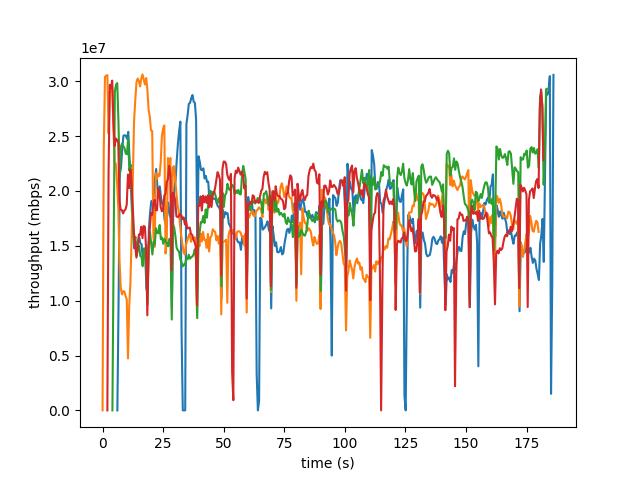
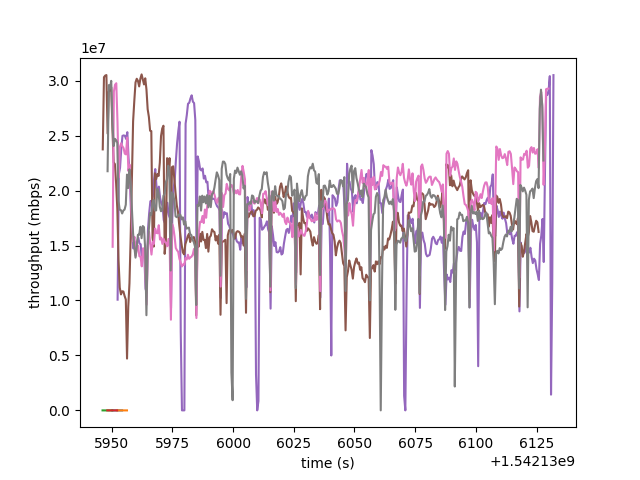
Refactor to reduce memory usage

diff --git a/Parse_pcap/src/main.rs b/Parse_pcap/src/main.rs
@@ -9,7 +9,7 @@ extern crate rayon;
 
 use std::env;
 use std::error::Error;
-use std::collections::HashMap;
+use std::collections::{HashMap};
 
 use linux_api::time::timeval;
 
@@ -32,10 +32,9 @@ fn main() -> Result<(), Box<dyn Error>> {
     let mut dir: String = String::from(".");
     let mut output: String;
     let mut granularity: i64 = 500;
-    let mut time_step: i64 = 500;
 
     if env::args().len() < 3 {
-        eprintln!("Args: <pcap_regex> <directory> [output_dir] [granularity] [time_step_size]");
+        eprintln!("Args: <pcap_regex> <directory> [output_dir] [granularity] ");
         return Result::Err(string_error::new_err("not enough args"));
     }
     else {
@@ -45,7 +44,6 @@ fn main() -> Result<(), Box<dyn Error>> {
                 2 => dir = arg,
                 3 => output = arg,
                 4 => granularity = arg.parse::<i64>()?,
-                5 => time_step = arg.parse::<i64>()?,
                 _ => eprintln!("arg {} is {}", i, arg),
             }
         }
@@ -57,31 +55,25 @@ fn main() -> Result<(), Box<dyn Error>> {
         let stem = Path::new(&file).file_stem().unwrap().to_str().unwrap();
         eprintln!("shortpath: {}", stem);
         let mut cap = open_capture(&file).unwrap();
-        let mut flow_map = parse_capture(&mut cap).unwrap();
 
-        let parsed_flows: Vec<(u16, Vec<Throughput>)> = flow_map.iter_mut().filter_map(|(port, packets)| {
-            packets.sort_by(|a, b| a.time.cmp(&b.time));
-            let tps = calculate_throughput(&packets, granularity, time_step);
+        let tps = calculate_throughput(&mut cap, granularity);
 
-            let non_zero_throughput : Vec<&Throughput> = tps.iter().filter(|tp| {
+        let vec_tps: Vec<(u16, Vec<Throughput>)> = tps.into_iter().filter_map(|(port, tp)| {
+            let non_zero_throughput : Vec<&Throughput> = tp.iter().filter(|tp| {
                 tp.value > 200
             }).collect();
 
-            if non_zero_throughput.len() > 100 {
-                Some((*port, tps))
-            } else {
+            if non_zero_throughput.len() > 1 {
+                eprintln!("non zero flow {}", port);
+                Some((port, tp))
+            }
+            else {
+                eprintln!("zero flow {} {}", port, non_zero_throughput.len());
                 None
             }
         }).collect();
 
-        let mut min_start_time = std::i64::MAX;
-        for (_, flow) in &parsed_flows {
-            if flow[0].time < min_start_time {
-                min_start_time = flow[0].time;
-            }
-        }
-
-        (String::from(stem), min_start_time, parsed_flows)
+        (String::from(stem), 0, vec_tps)
     }).collect();
 
     let mut min_start_time = std::i64::MAX;
@@ -144,9 +136,9 @@ fn packet_len(pkt: &Pkts) -> u32 {
     // - 4 * pkt.tcp_p.get_data_offset() as u32
 }
 
-fn calculate_throughput_between(start: usize, end: usize, pkts: &[Pkts]) -> u32 {
+fn calculate_throughput_between(pkts: &[Pkts]) -> u32 {
     let mut data_size = 0;
-    for idx in start..=end {
+    for idx in 0..pkts.len() {
         let p = &pkts[idx];
         let Pkts {
             time,
@@ -164,42 +156,52 @@ fn calculate_throughput_between(start: usize, end: usize, pkts: &[Pkts]) -> u32 
 }
 
 /// Takes sorted list of Pkts
-fn calculate_throughput(pkts: &[Pkts], granularity: i64, step_size: i64) -> Vec<Throughput> {
-    let mut res: Vec<Throughput> = vec![];
-    let mut t_bottom = pkts[0].time - granularity;
-    let mut t_top = pkts[0].time;
-    let mut bottom = 0;
-    let mut top = 1;
-    'outer: while top < pkts.len() - 1 {
-        for idx in top..=pkts.len() {
-            // search for first packet past the window
-            if idx == pkts.len() {
-                top = idx;
-                break 'outer;
-            }
-            if pkts[idx].time > t_top {
-                top = idx;
-                break;
-            }
+fn calculate_throughput(cap: &mut Capture<Offline>, granularity: i64) -> HashMap<u16, Vec<Throughput>> {
+    let mut intermediate_flows: HashMap<u16, Vec<Pkts>> = HashMap::new();
+    let mut intermediate_t_top: HashMap<u16, i64> = HashMap::new();
+    // result
+    let mut flows_throughput: HashMap<u16, Vec<Throughput>> = HashMap::new();
+
+    while let Ok(p) = cap.next() {
+        let d: Vec<u8> = p.data.iter().cloned().collect();
+        let tv = timeval {
+            tv_sec: p.header.ts.tv_sec,
+            tv_usec: p.header.ts.tv_usec
+        };
+
+        let pkt = parse(d, tv.to_milliseconds());
+        let src_port = pkt.tcp_p.get_source() as u16;
+        // start flow parsing if the flow hasn't been seen
+        if !intermediate_flows.contains_key(&src_port) {
+            intermediate_flows.insert(src_port, Vec::with_capacity(1000));
+            intermediate_t_top.insert(src_port, pkt.time + granularity);
+            flows_throughput.insert(src_port, Vec::with_capacity(1000));
         }
-        for idx in bottom..pkts.len() {
-            // search for first packet past the window
-            if pkts[idx].time >= t_bottom {
-                bottom = idx;
-                break;
-            }
+        let t_top = *(intermediate_t_top.get(&src_port).unwrap());
+
+        if pkt.time > t_top {
+            // calculate the throughput for the intermediate window
+            let window = intermediate_flows.get(&src_port).unwrap();
+            let throughput =
+            (calculate_throughput_between(window) as i64) as f64 / (granularity as f64 / 1000.);
+
+            let tp = Throughput {
+                    time: t_top, 
+                    value: throughput as i64
+                    };
+
+            intermediate_t_top.remove(&src_port);
+            intermediate_t_top.insert(src_port, t_top + granularity);
+
+            intermediate_flows.remove(&src_port);
+            intermediate_flows.insert(src_port, Vec::with_capacity(1000));
+
+            flows_throughput.get_mut(&src_port).unwrap().push(tp);
         }
 
-        let throughput =
-            (calculate_throughput_between(bottom, top, pkts) as i64) as f64 / (granularity as f64 / 1000.);
-        res.push(Throughput {
-            time: t_top,
-            value: throughput as i64,
-        });
-        t_top += step_size;
-        t_bottom += step_size;
+        intermediate_flows.get_mut(&src_port).unwrap().push(pkt);
     }
-    res
+    flows_throughput
 }
 
 #[derive(Debug)]
@@ -222,24 +224,6 @@ fn parse<'a>(pkt: Vec<u8>, time: i64) -> Pkts<'a> {
         ip_p: ip_p,
         tcp_p: tcp_p,
     }
-}
-
-fn parse_capture<'a>(cap: &mut Capture<Offline>) -> Result<HashMap<u16, Vec<Pkts<'a>>>, Box<dyn Error>> {
-    let mut flows: HashMap<u16, Vec<Pkts>> = HashMap::new();
-    while let Ok(p) = cap.next() {
-        let d: Vec<u8> = p.data.iter().cloned().collect();
-        let tv = timeval {
-            tv_sec: p.header.ts.tv_sec,
-            tv_usec: p.header.ts.tv_usec,
-        };
-        let pkt = parse(d, tv.to_milliseconds());
-        let src_port = pkt.tcp_p.get_source() as u16;
-        if !flows.contains_key(&src_port) {
-            flows.insert(src_port, vec![]);
-        }
-        flows.get_mut(&src_port).unwrap().push(pkt);
-    }
-    return Ok(flows);
 }
 
 fn open_capture(st: &str) -> Result<Capture<Offline>, Box<dyn Error>> {
